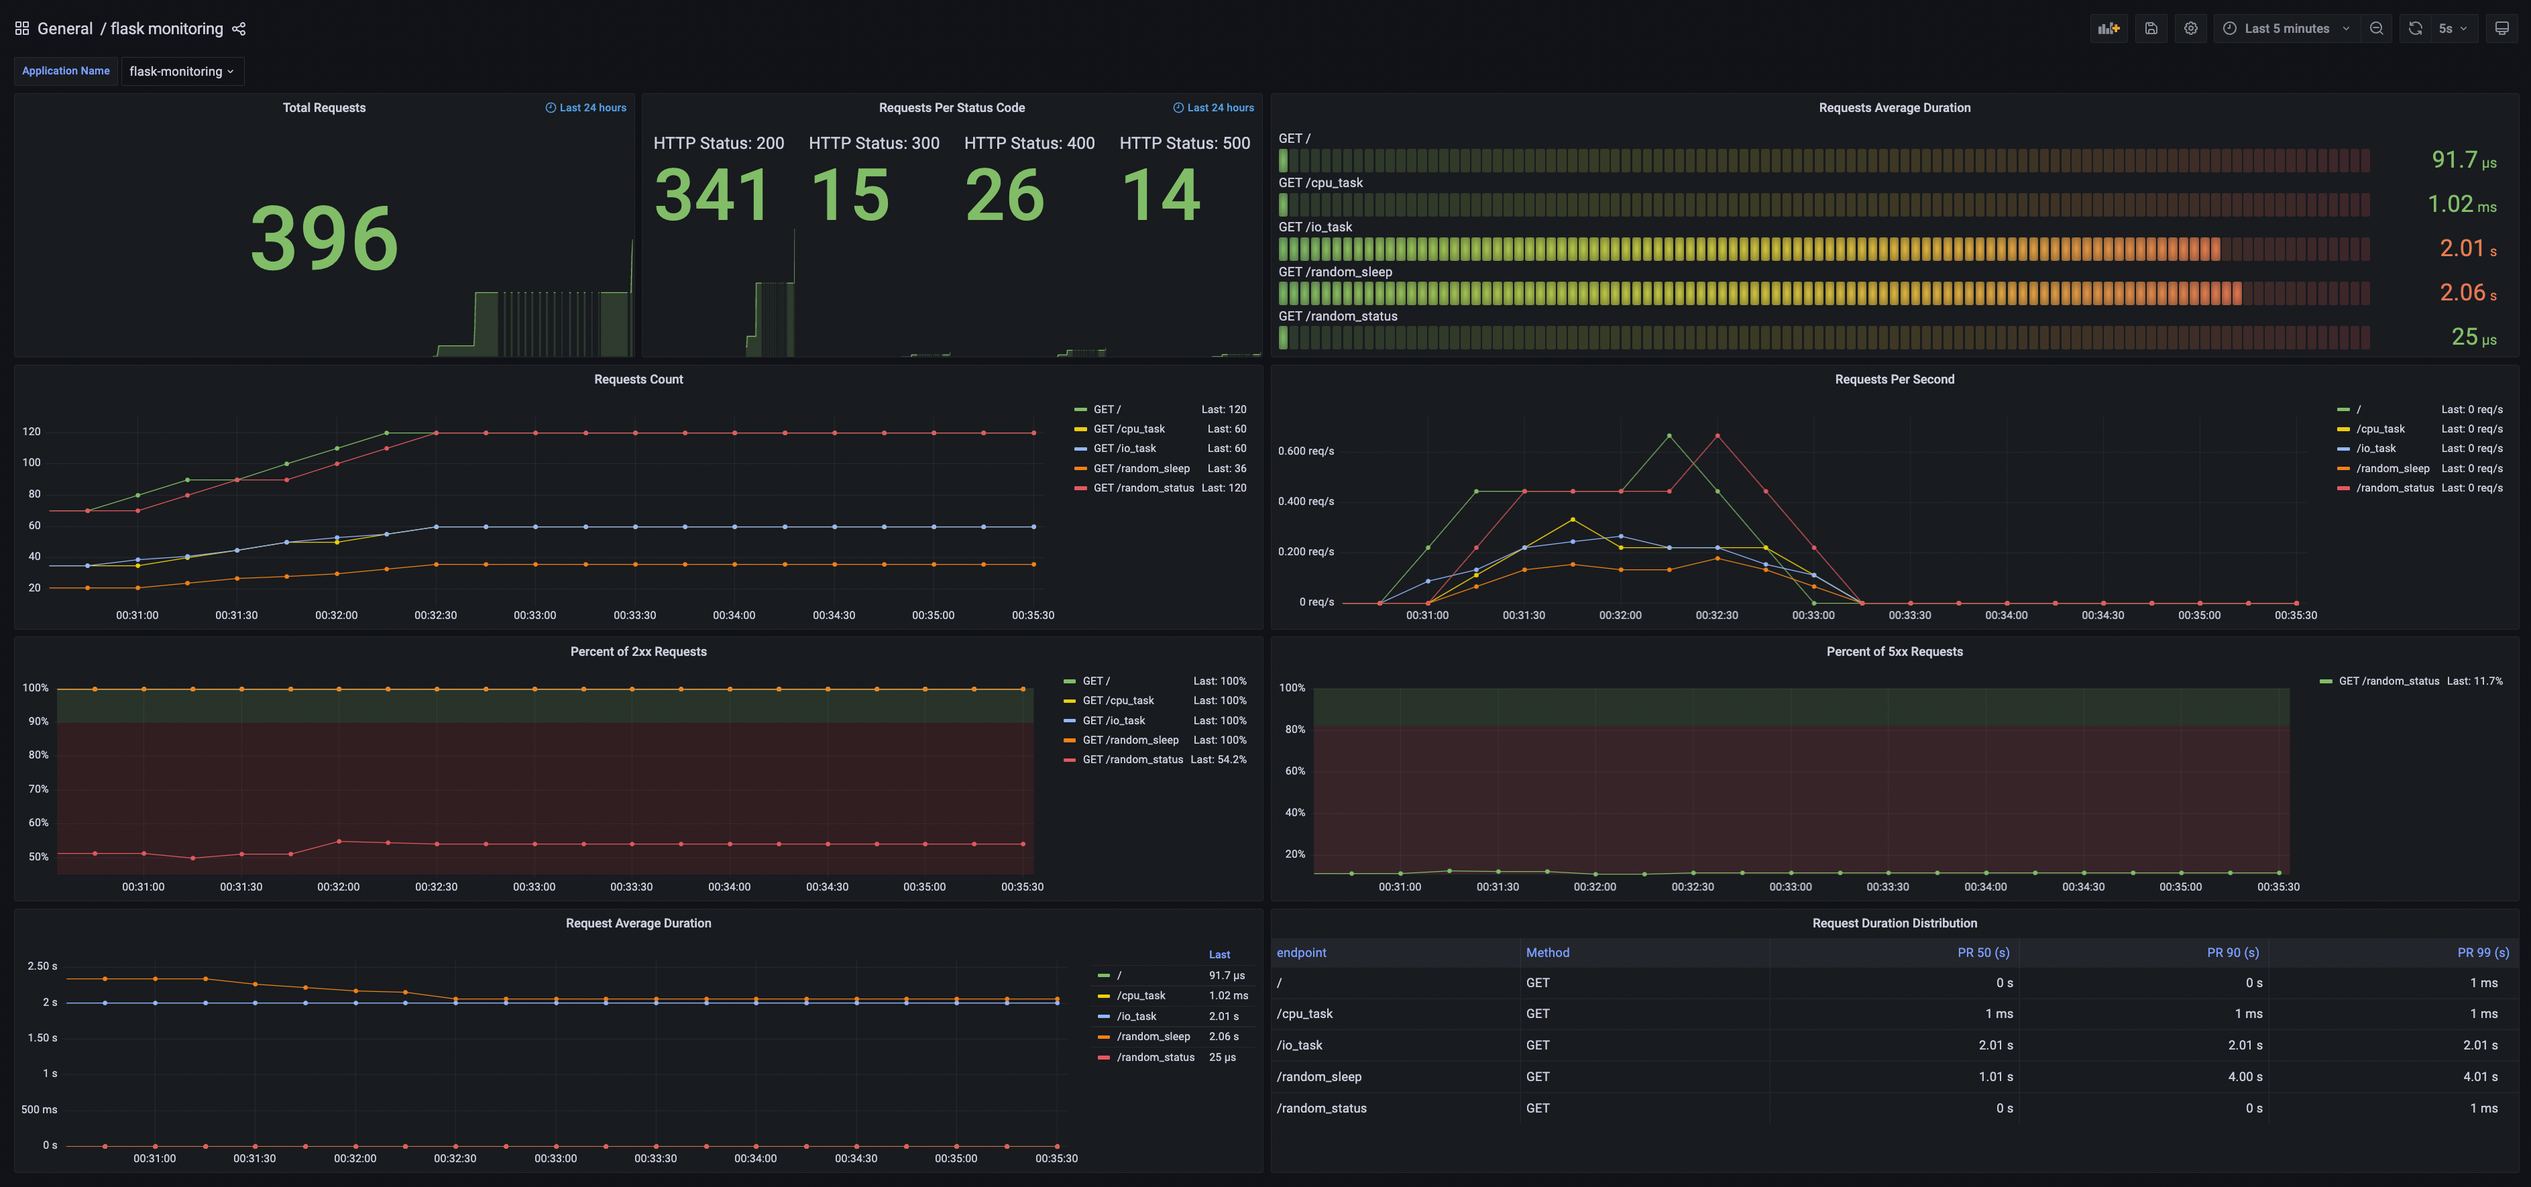
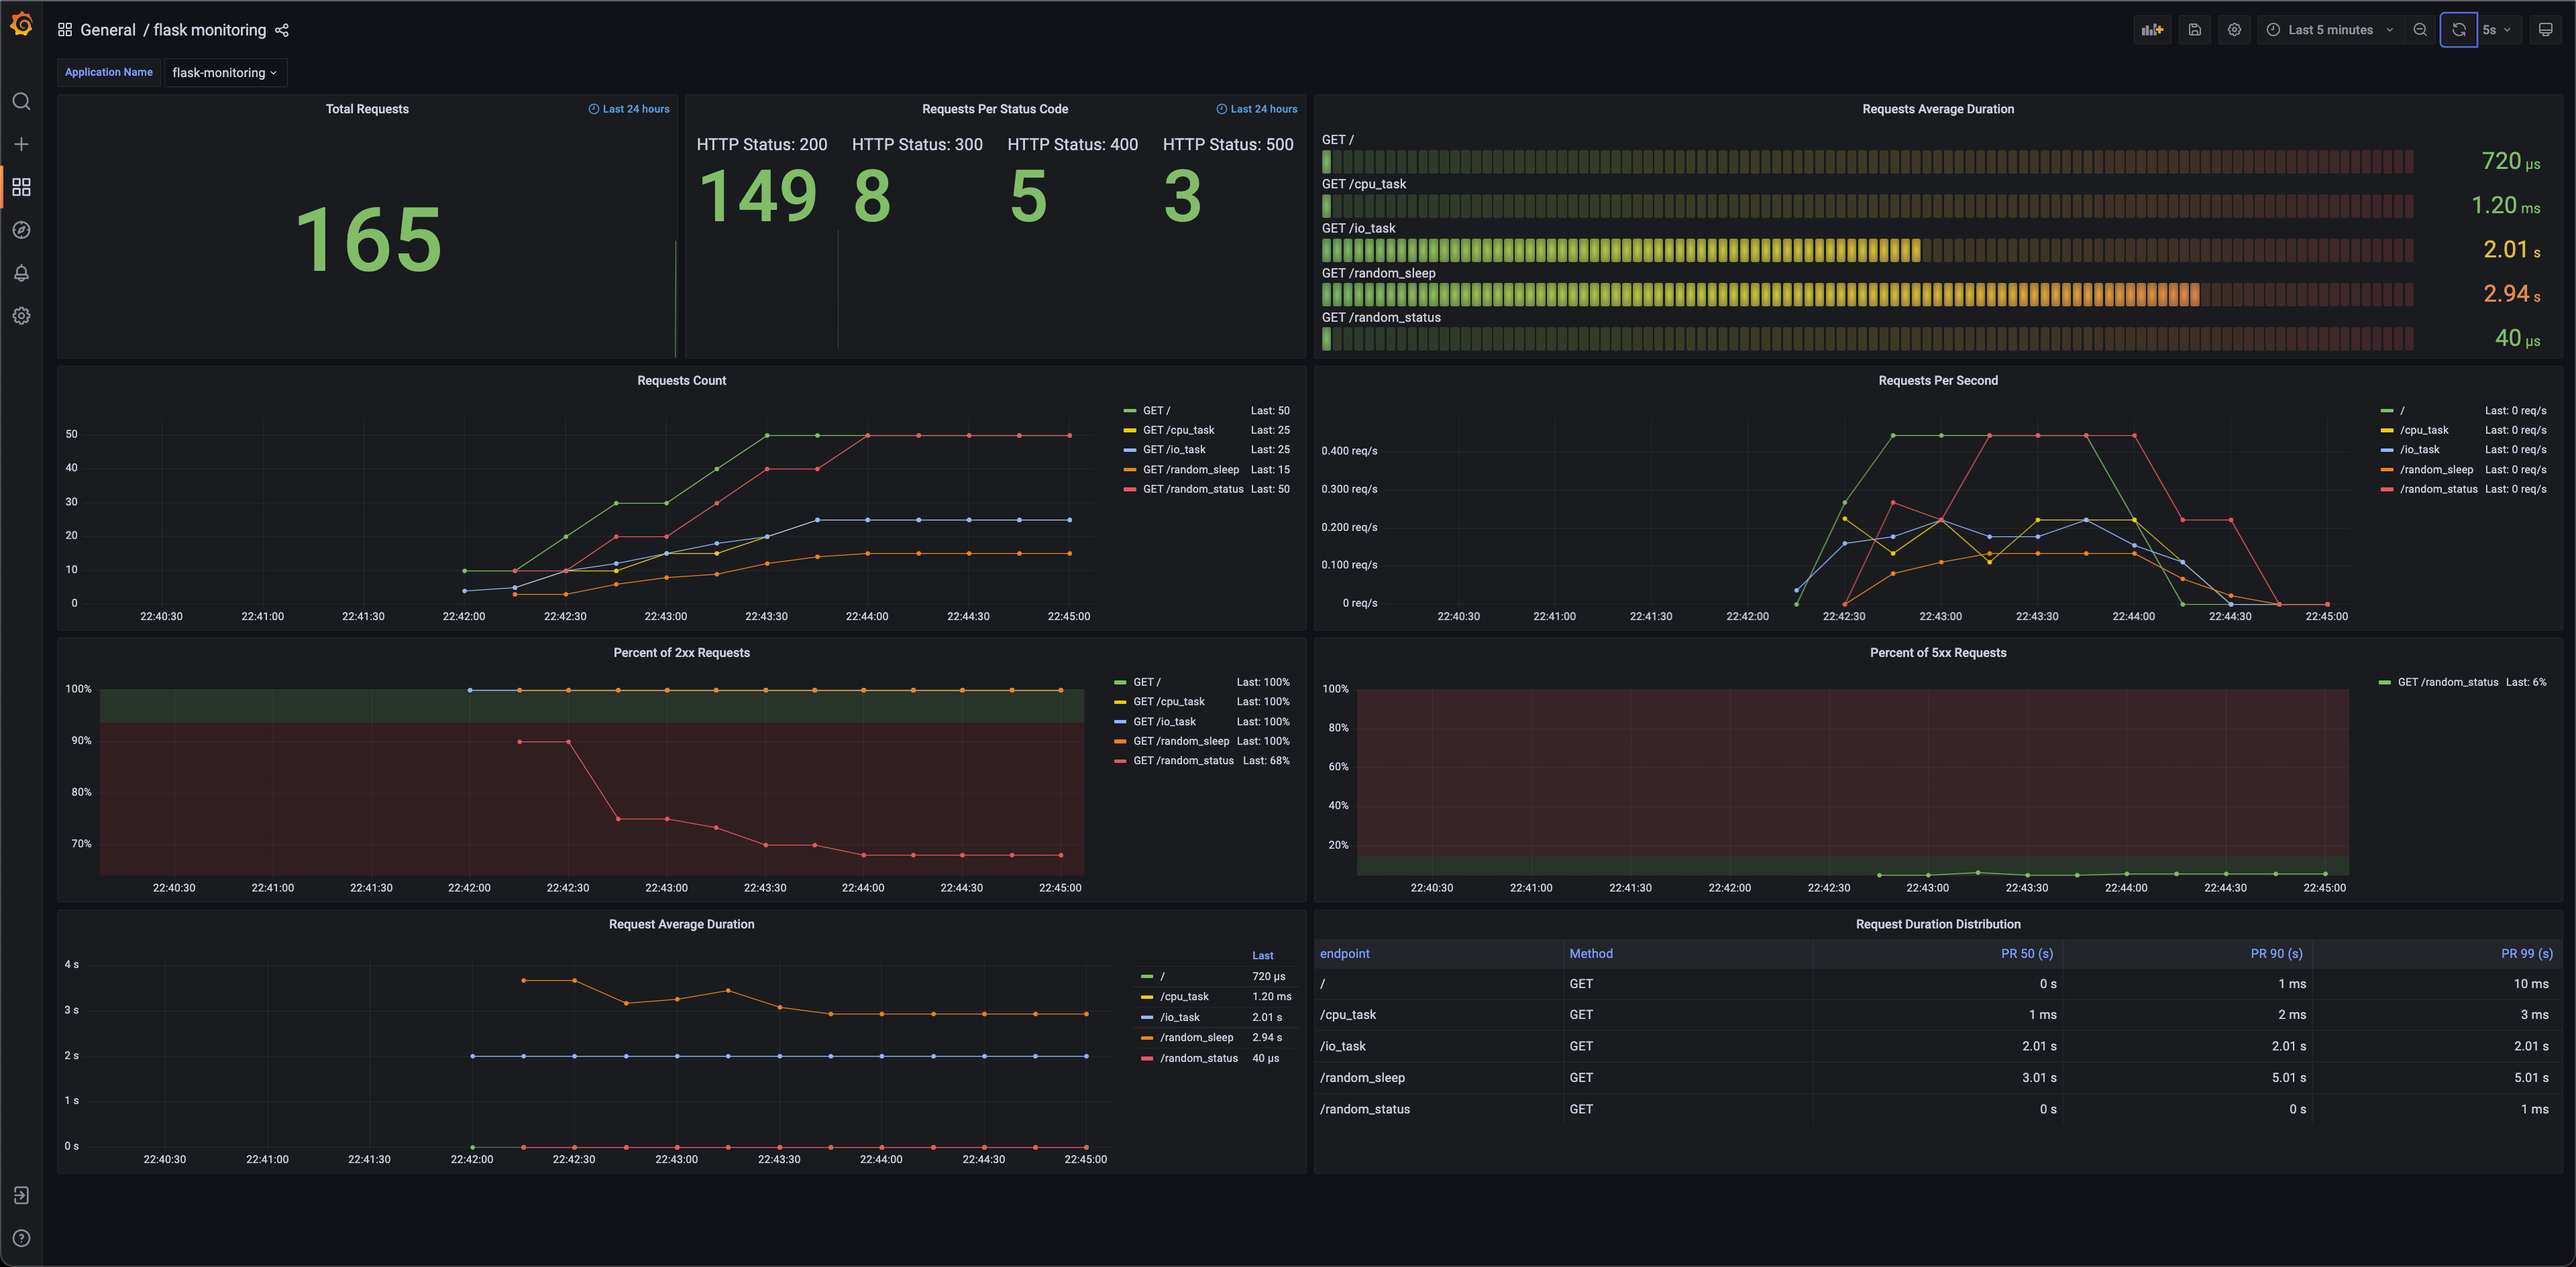
Load predefined dashboad, and update dashboard.

diff --git a/readme.md b/readme.md
@@ -21,18 +21,13 @@ Monitor Flask application through custom StatsD metrics with Prometheus and Graf
    docker-compose up -d
    ```
 
-2. Import Grafana dashboard
-
-   1. Go to Grafana [http://localhost:3000/](http://localhost:3000/)
-   2. Create dashboard with import with panel json [flask-monitoring-board.json](./flask-monitoring-board.json)
-
-3. Send requests with [siege](https://linux.die.net/man/1/siege) to flask app
+2. Send requests with [siege](https://linux.die.net/man/1/siege) to flask app
 
    ```bash
    bash request-script.sh
    ```
 
-4. Check dashboard
+3. Check predefined dashboard ```flask monitoring``` on Grafana [http://localhost:3000/](http://localhost:3000/)
 
    dashboard screenshot
 
@@ -95,6 +90,18 @@ datasources:
     version: 1
     # <bool> allow users to edit datasources from the UI.
     editable: false
+```
+
+Load predefined dashboard with ```etc/dashboards.yaml``` and ```etc/dashboards/flask-monitoring.json```.
+
+```yaml
+# grafana in docker-compose.yaml
+grafana:
+    image: grafana/grafana:8.4.3
+    volumes:
+      - ./etc/grafana/:/etc/grafana/provisioning/datasources
+      - ./etc/dashboards.yaml:/etc/grafana/provisioning/dashboards/dashboards.yaml # dashboard setting
+      - ./etc/dashboards:/etc/grafana/dashboards # dashboard json files directory
 ```
 
 #### Dashboard
